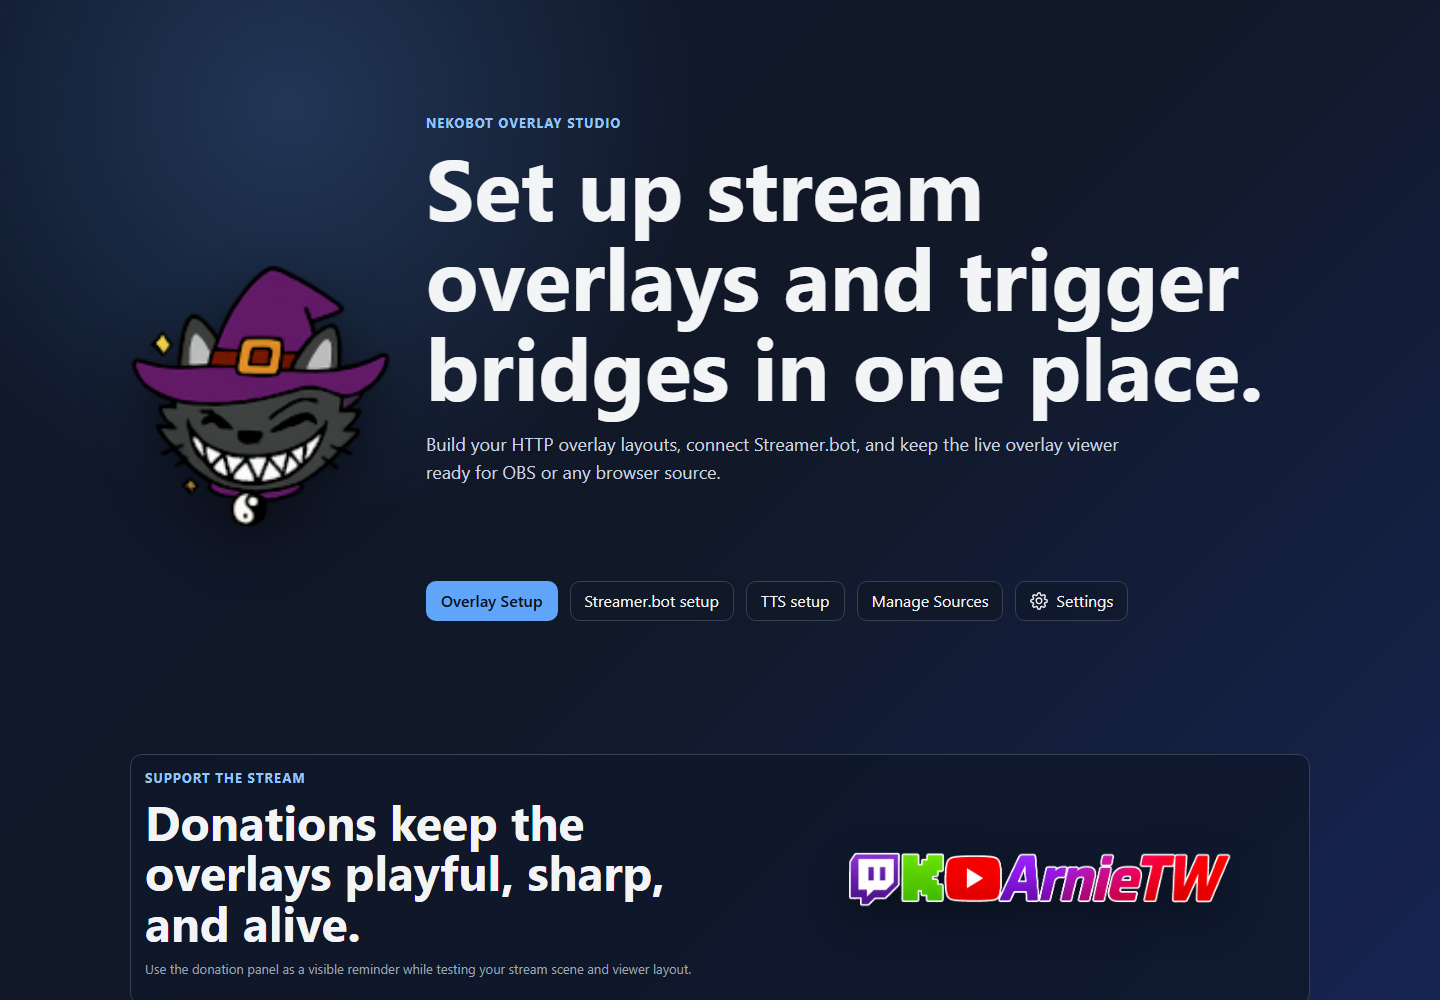
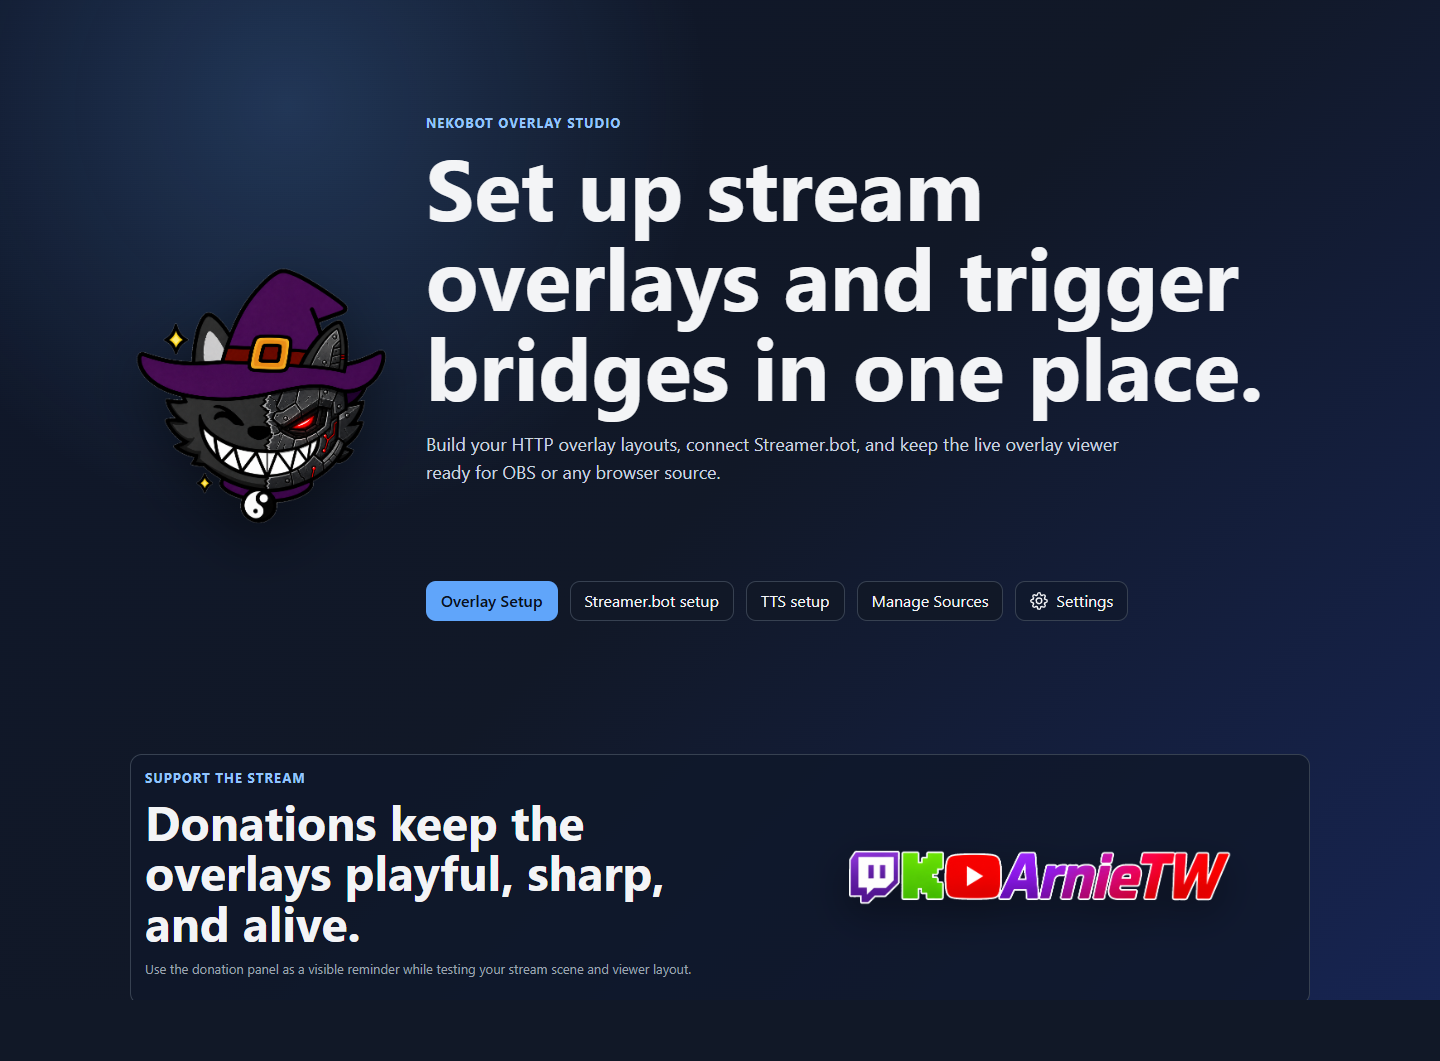
Filter runtime releases from public downloads

diff --git a/release.js b/release.js
@@ -1,9 +1,9 @@
 (function () {
     const owner = "ArnieTW";
     const repo = "NekoBot";
-    const latestReleaseUrl = `https://api.github.com/repos/${owner}/${repo}/releases/latest`;
-    const fallbackUrl = `https://github.com/${owner}/${repo}/releases/latest`;
     const allReleasesUrl = `https://github.com/${owner}/${repo}/releases`;
+    const releasesApiUrl = `https://api.github.com/repos/${owner}/${repo}/releases?per_page=20`;
+    const fallbackUrl = allReleasesUrl;
 
     const selectors = {
         title: "[data-release-title]",
@@ -16,6 +16,7 @@
     };
 
     const preferredAssetPattern = /\.(zip|msi|exe|7z)$/i;
+    const runtimeReleasePattern = /^runtimes\b/i;
     const packageKinds = [
         {
             key: "windows",
@@ -168,6 +169,14 @@
         return assets.find((asset) => pattern.test(asset.name || ""));
     }
 
+    function isRuntimeRelease(release) {
+        return runtimeReleasePattern.test(release?.tag_name || "") || runtimeReleasePattern.test(release?.name || "");
+    }
+
+    function selectAppRelease(releases) {
+        return (Array.isArray(releases) ? releases : []).find((release) => !isRuntimeRelease(release));
+    }
+
     function findChecksumAsset(release) {
         return findAsset(release, /^SHA256SUMS-.+\.txt$/i) || findAsset(release, /^SHA256SUMS\.txt$/i);
     }
@@ -269,7 +278,7 @@
 
     async function loadRelease() {
         try {
-            const response = await fetch(latestReleaseUrl, {
+            const response = await fetch(releasesApiUrl, {
                 headers: {
                     Accept: "application/vnd.github+json"
                 }
@@ -279,7 +288,12 @@
                 throw new Error(`GitHub returned ${response.status}`);
             }
 
-            applyRelease(await response.json());
+            const release = selectAppRelease(await response.json());
+            if (!release) {
+                throw new Error("No app release was found.");
+            }
+
+            applyRelease(release);
         } catch (error) {
             applyFallback();
         }

diff --git a/releases/index.html b/releases/index.html
@@ -48,7 +48,7 @@
                     <h2 data-release-title>Latest Release</h2>
                     <p class="meta" data-release-meta>Loading GitHub release details...</p>
                 </div>
-                <a class="button" href="https://github.com/ArnieTW/NekoBot/releases/latest" data-release-link>View on GitHub</a>
+                <a class="button" href="https://github.com/ArnieTW/NekoBot/releases" data-release-link>View on GitHub</a>
             </section>
 
             <section class="download-options" data-release-options>

diff --git a/index.html b/index.html
@@ -115,7 +115,7 @@
                 </div>
                 <div class="button-row">
                     <a class="button primary" href="./releases/">Choose download</a>
-                    <a class="button" href="https://github.com/ArnieTW/NekoBot/releases/latest" data-release-link>View release</a>
+                    <a class="button" href="https://github.com/ArnieTW/NekoBot/releases" data-release-link>View release</a>
                 </div>
                 <p class="meta" data-release-status></p>
             </div>
